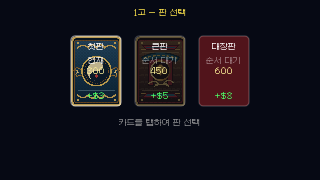
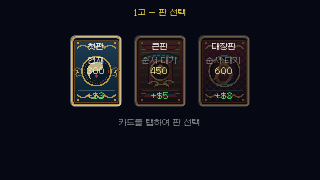
feat(assets): add hook boss card artwork

Changed region(s): [[0.625, 0.1944, 0.7812, 0.6111]]

diff --git a/docs/STATUS.md b/docs/STATUS.md
@@ -1,21 +1,13 @@
-## 2026-09-09 — 첫판/큰판 블라인드 카드 배경 에셋 적용
-
-- `assets/manifest.json`에서 `ui.blind_small`과 `ui.blind_big`을 `runtime` 상태로 승격하고, 400×560 master 벡터 기반 이미지에서 `pixel-perfect` 파이프라인을 거친 50×70 runtime PNG 배선을 정의했다.
-- 신규 `game/ui/blind_card_art.lua`가 런타임 에셋을 로드하고 `blind_select.lua`에서 선택/비선택 카드 배경으로 투명도를 조절해 그려지도록 적용했다. (기존 보스 카드는 별도 보스 카테고리로 유지)
-- `game/tests/blind_card_art.lua`를 추가하여 master/runtime 해상도 유지와 `nearest` 필터 설정을 강제 검증했다.
-- `tools/blind_card_qa_main.lua`를 통해 실제 320×180 해상도 기반의 LÖVE 캡처 출력(`blind-round-cards-love-v1.png`)을 자동화하여 UI 겹침과 시각적 완결성을 QA할 수 있도록 구성했다.
-- `make verify LOVE=/Users/jm/.local/bin/love` GREEN: 전체 unit/font/card-overlap/smoke, `blind-card-qa`, 238-file bundle 검증 통과.
-- INBOX (27)은 다른 런타임/데이터 인스턴스들의 정적 그래픽 전환이 남아 있어 처리 대기로 유지한다.
-- Next slice: 에셋 inventory에서 다음 미완료 정적 카테고리 하나를 골라 master/runtime manifest 계약과 실제 LÖVE 배선을 완성한다.
-
 # STATUS
-## 2026-09-09 — 플레이 패 contact sheet 셀 추적 계약
-- `assets/manifest.json`의 플레이 패 5종 각각에 공유 960×288 master와 120×36 runtime 후보 sheet 안의 정확한 셀 순서·영역, 24×36 alpha bounds를 기록했다.
-- 신규 engine-hosted `game/tests/card_candidate_manifest.lua`가 피·홍단·청단·초단·고도리의 192×288 master 셀과 24×36 runtime 셀이 겹치거나 순서가 바뀌지 않는 계약을 검사한다.
-- TDD RED: 기존 manifest에는 `candidateCell`이 없어 실패함을 확인했다. 구현 후 `card_candidate_manifest: OK`와 전체 unit/smoke 테스트가 GREEN이다.
-- 5종은 여전히 `candidate`이며 사람의 식별성·화투 아트 승인 전에는 runtime loader가 거부한다.
-- INBOX (27)은 전체 그래픽 전환과 플레이 패 사람 승인이 남아 있어 처리 대기로 유지한다.
-- Next slice: 사람이 `assets/runtime/cards/play-card-overlap-love-v1.png`에서 5종 상단 표식과 화투 아트를 승인/거부한 결과를 manifest에 기록하고, 승인 시에만 5종을 함께 runtime으로 승격한다.
+
+## 2026-09-09 — 갈고리 대장판 고해상도 에셋 적용
+
+- `boss-blind.hook`에 400×560 벡터/PNG master와 Asset Studio 실제 `POST /api/pixel-perfect`에서 생성한 50×70 runtime PNG를 추가하고, hash·alpha bounds·변환 보고서·nearest 필터를 manifest에 기록했다.
+- `game/ui/blind_card_art.lua`가 대장판 ID별 아트를 독립적으로 해석하며, 미승격 대장판은 기존 색상 배경으로 안전하게 fallback한다.
+- LÖVE 11.5의 실제 320×180 선택 화면 캡처에 갈고리 아트를 배선했고 신규 `game/tests/boss_blind_card_art.lua`로 master/runtime 계약과 fallback을 검증했다.
+- `make verify LOVE=/Users/jm/.local/bin/love` GREEN: status compactor 회귀, 전체 unit/font/card-overlap/blind-card/smoke와 245-file bundle 검증 통과.
+- INBOX (27)은 다른 대장판 및 정적/애니메이션 카테고리가 남아 있어 처리 대기로 유지한다.
+- Next slice: `boss-blind.wall` 하나의 master/runtime manifest 계약과 실제 LÖVE 배선을 같은 방식으로 완성한다.
 
 ## 2026-09-09 — 한국 테마 용어 계약 신설 및 일부 적용 (판/고)
 

diff --git a/docs/STATUS_HISTORY.md b/docs/STATUS_HISTORY.md
@@ -1137,3 +1137,25 @@ past ~16KB. See `docs/TOKEN_OPTIMIZATION.md` for the full pattern.
 - `make verify LOVE=/Users/jm/.local/bin/love` GREEN: compactor 회귀, 전체 unit/font/card-overlap/smoke, 222-file bundle 검증이 통과했다.
 - INBOX (27)은 전체 그래픽 전환이 남아 있어 처리 대기로 유지한다.
 - Next slice: 에셋 inventory에서 플레이 패 다음 미완료 정적 카테고리 하나를 골라 master/runtime manifest 계약과 실제 LÖVE 배선을 완성한다.
+
+## Archived from STATUS.md (2026-09-09 01:06)
+
+
+- `assets/manifest.json`에서 `ui.blind_small`과 `ui.blind_big`을 `runtime` 상태로 승격하고, 400×560 master 벡터 기반 이미지에서 `pixel-perfect` 파이프라인을 거친 50×70 runtime PNG 배선을 정의했다.
+- 신규 `game/ui/blind_card_art.lua`가 런타임 에셋을 로드하고 `blind_select.lua`에서 선택/비선택 카드 배경으로 투명도를 조절해 그려지도록 적용했다. (기존 보스 카드는 별도 보스 카테고리로 유지)
+- `game/tests/blind_card_art.lua`를 추가하여 master/runtime 해상도 유지와 `nearest` 필터 설정을 강제 검증했다.
+- `tools/blind_card_qa_main.lua`를 통해 실제 320×180 해상도 기반의 LÖVE 캡처 출력(`blind-round-cards-love-v1.png`)을 자동화하여 UI 겹침과 시각적 완결성을 QA할 수 있도록 구성했다.
+- `make verify LOVE=/Users/jm/.local/bin/love` GREEN: 전체 unit/font/card-overlap/smoke, `blind-card-qa`, 238-file bundle 검증 통과.
+- INBOX (27)은 다른 런타임/데이터 인스턴스들의 정적 그래픽 전환이 남아 있어 처리 대기로 유지한다.
+- Next slice: 에셋 inventory에서 다음 미완료 정적 카테고리 하나를 골라 master/runtime manifest 계약과 실제 LÖVE 배선을 완성한다.
+
+## Archived from STATUS.md (2026-09-09 01:12)
+
+# STATUS
+## 2026-09-09 — 플레이 패 contact sheet 셀 추적 계약
+- `assets/manifest.json`의 플레이 패 5종 각각에 공유 960×288 master와 120×36 runtime 후보 sheet 안의 정확한 셀 순서·영역, 24×36 alpha bounds를 기록했다.
+- 신규 engine-hosted `game/tests/card_candidate_manifest.lua`가 피·홍단·청단·초단·고도리의 192×288 master 셀과 24×36 runtime 셀이 겹치거나 순서가 바뀌지 않는 계약을 검사한다.
+- TDD RED: 기존 manifest에는 `candidateCell`이 없어 실패함을 확인했다. 구현 후 `card_candidate_manifest: OK`와 전체 unit/smoke 테스트가 GREEN이다.
+- 5종은 여전히 `candidate`이며 사람의 식별성·화투 아트 승인 전에는 runtime loader가 거부한다.
+- INBOX (27)은 전체 그래픽 전환과 플레이 패 사람 승인이 남아 있어 처리 대기로 유지한다.
+- Next slice: 사람이 `assets/runtime/cards/play-card-overlap-love-v1.png`에서 5종 상단 표식과 화투 아트를 승인/거부한 결과를 manifest에 기록하고, 승인 시에만 5종을 함께 runtime으로 승격한다.

diff --git a/docs/GENERATED_ASSET_LOG.md b/docs/GENERATED_ASSET_LOG.md
@@ -22,3 +22,7 @@
 2026-09-09T00:37:54+0900 | assets/runtime/cards/cheongdan.png | extracted 24x36 cheongdan card from play-card-contact-sheet-v1.png
 2026-09-09T00:37:54+0900 | assets/runtime/cards/chodan.png | extracted 24x36 chodan card from play-card-contact-sheet-v1.png
 2026-09-09T00:37:54+0900 | assets/runtime/cards/godori.png | extracted 24x36 godori card from play-card-contact-sheet-v1.png
+| 2026-09-09T01:13:22+0900 | `assets/masters/boss-blind/hook-v1.svg` | Project-authored high-resolution Korean lacquer, dancheong, brass hook, knot, and ember vector source |
+| 2026-09-09T01:13:22+0900 | `assets/masters/boss-blind/hook-v1.png` | Preserved 400×560 RGBA raster master generated from the vector source |
+| 2026-09-09T01:13:22+0900 | `assets/runtime/boss-blind/hook-v1.png` | 50×70 runtime boss card from actual Asset Studio `POST /api/pixel-perfect`; original palette, hard alpha, nearest validation 5/5 |
+| 2026-09-09T01:13:22+0900 | `assets/runtime/ui/blind-round-cards-love-v1.png` | Actual LÖVE 11.5 320×180 Canvas capture including the hook boss artwork with nearest filtering |

diff --git a/docs/ASSET_INVENTORY.md b/docs/ASSET_INVENTORY.md
@@ -2,7 +2,7 @@
 
 ## boss-blind
 
-- [ ] `boss-blind.hook` - 갈고리
+- [x] `boss-blind.hook` - 갈고리 (400×560 master → 50×70 runtime)
 - [ ] `boss-blind.wall` - 성벽
 - [ ] `boss-blind.flint` - 부싯돌
 - [ ] `boss-blind.mark` - 낙인
